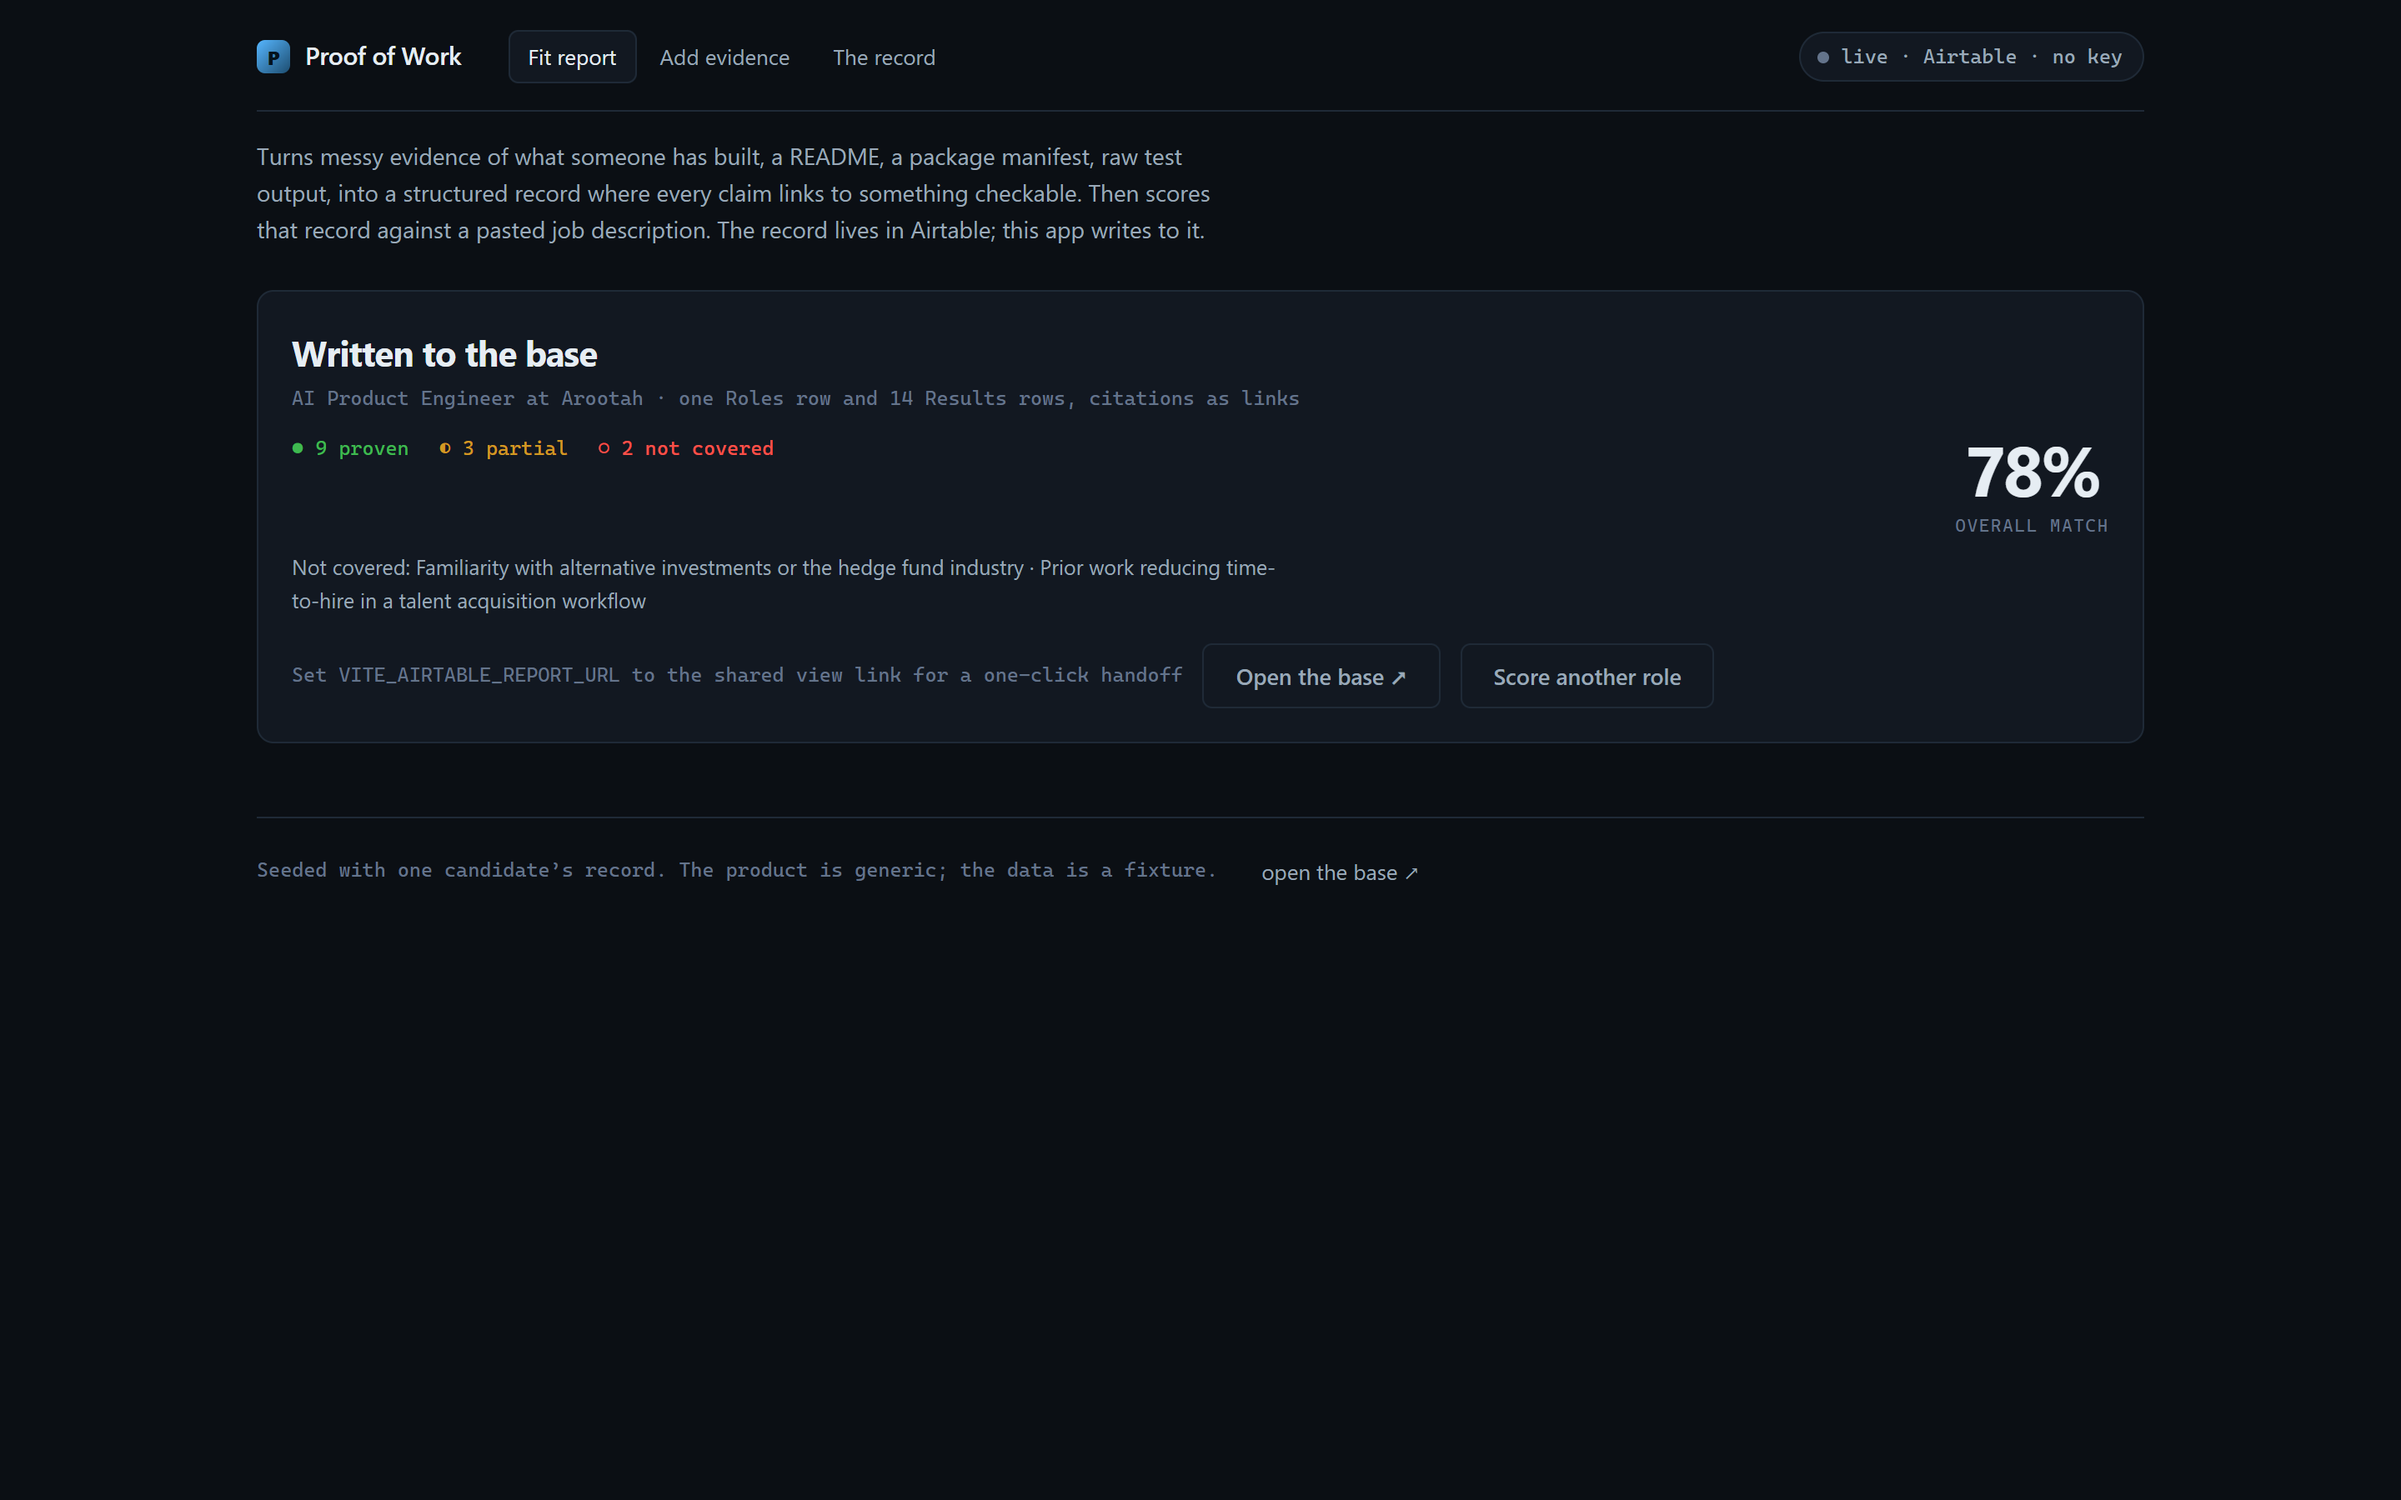
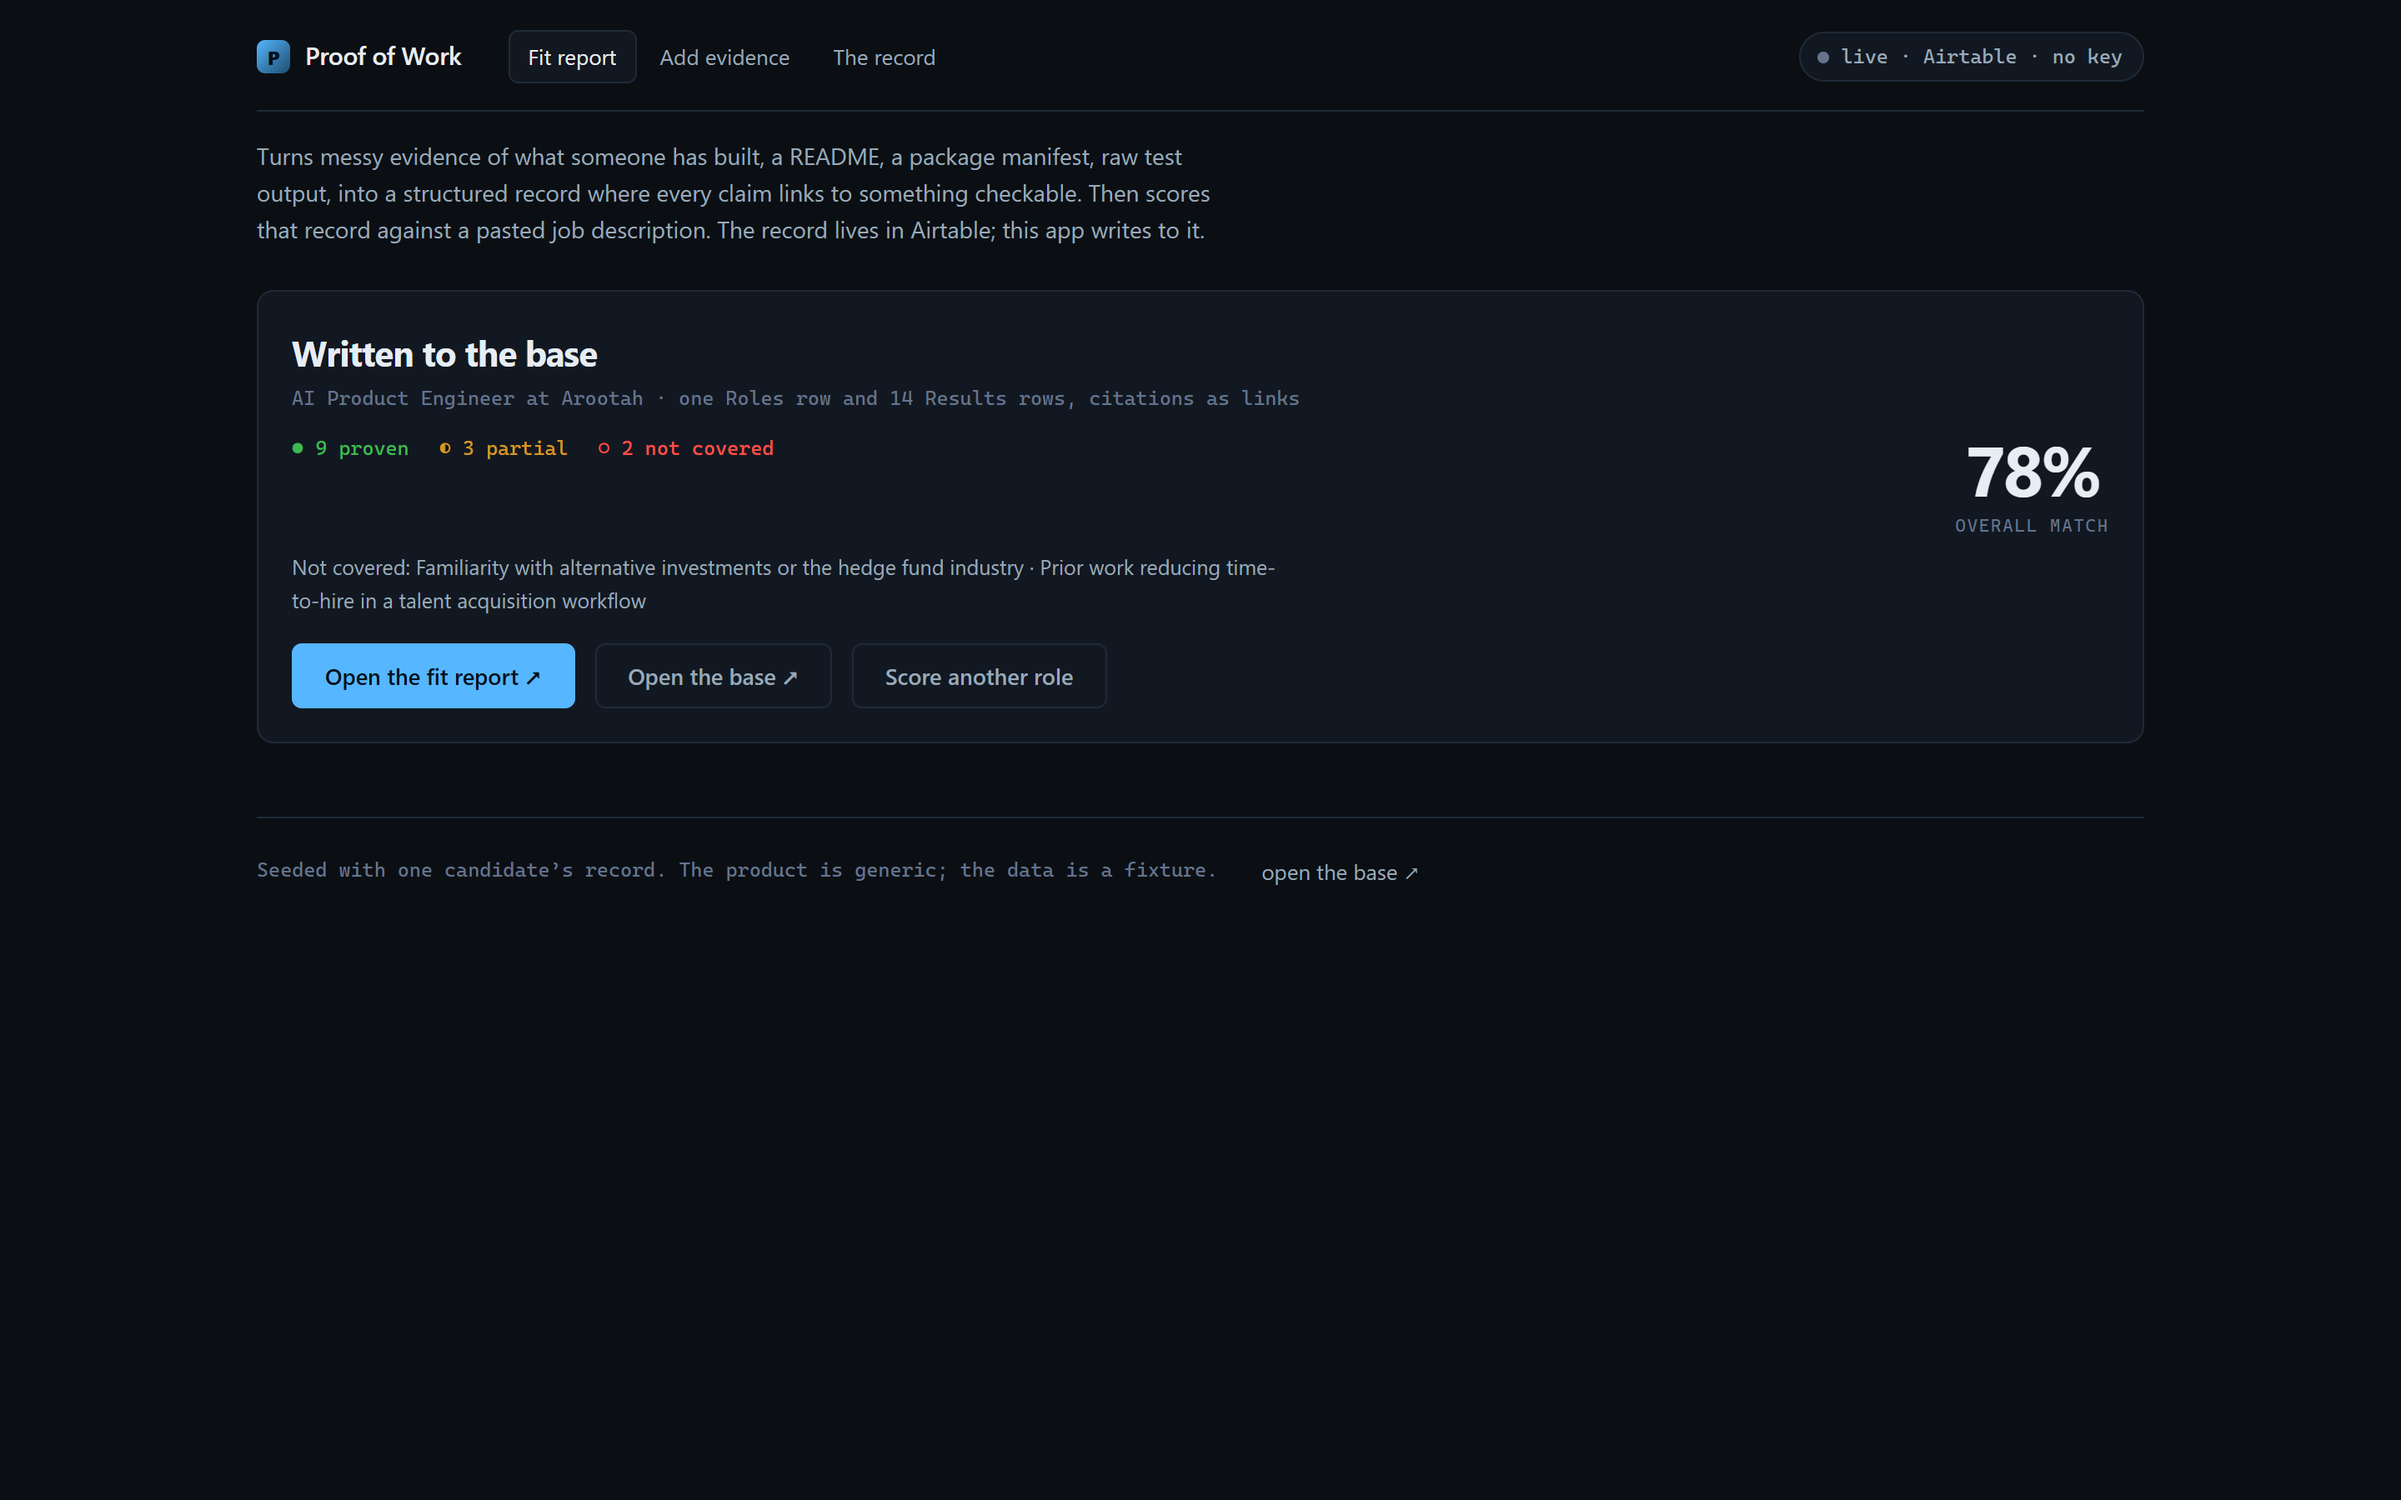
docs: shared view built and verified anonymously; live shots show the real handoff
Joel built every VIEWS.md field and the shared recruiter view by hand, learning
Airtable as he went - including catching a naming redundancy (Receipts rename)
that improved the base. The share link was verified from a browser that has
never logged into Airtable: no login wall, exactly the six intended columns,
proven-first sort, and live pipeline data (the n8n row already cites VHD
Outreach). API meta confirms all 16 Results fields survived the clicking.

The confirmation screenshot now shows the real 'Open the fit report' button
reading VITE_AIRTABLE_REPORT_URL.

Changed region(s): [[0.0938, 0.4044, 0.5, 0.4978], [0.625, 0.4356, 0.6875, 0.4667], [0.5312, 0.4356, 0.5625, 0.4667]]

diff --git a/NOTES.md b/NOTES.md
@@ -120,8 +120,12 @@ the ingestion surface plus score trigger. Full spec with verified platform facts
 Implemented: env split + honest n8n probe + live-mode gating (confirmation card, base link-outs,
 no second fit report, no fixture counts over live data), VIEWS.md/INTERFACE.md rewritten as v2
 click-scripts with exact formulas, README/WRITEUP lead with Airtable, live screenshots captured.
-Remaining for Joel: the ~25 min VIEWS.md clicking (fields + shared view + incognito test), the
-~1 h INTERFACE.md pages, paste the share link into .env.local, three SaaS screenshots, the 75s film. A reusable skill pack from this build landed at
+DONE by Joel 2026-07-27: all VIEWS.md §A fields (Receipt, Verdict, Receipts rollup, three counting
+rollups reading 9/3/2, Verdict Summary) and the §B shared view. Share link verified ANONYMOUSLY by
+Claude from a never-logged-in browser: no login wall, six columns only, proven-first sort, live data.
+Link wired into .env.local; the confirmation card now shows the real Open-the-fit-report button.
+Remaining: the 1-hidden-field chip check in incognito (cosmetic), VIEWS.md §C operator views (3 min),
+INTERFACE.md pages (~1 h), three SaaS screenshots, the 75s film. A reusable skill pack from this build landed at
 _reference/skill-packs/airtable-n8n-backend/.
 
 ## Open
